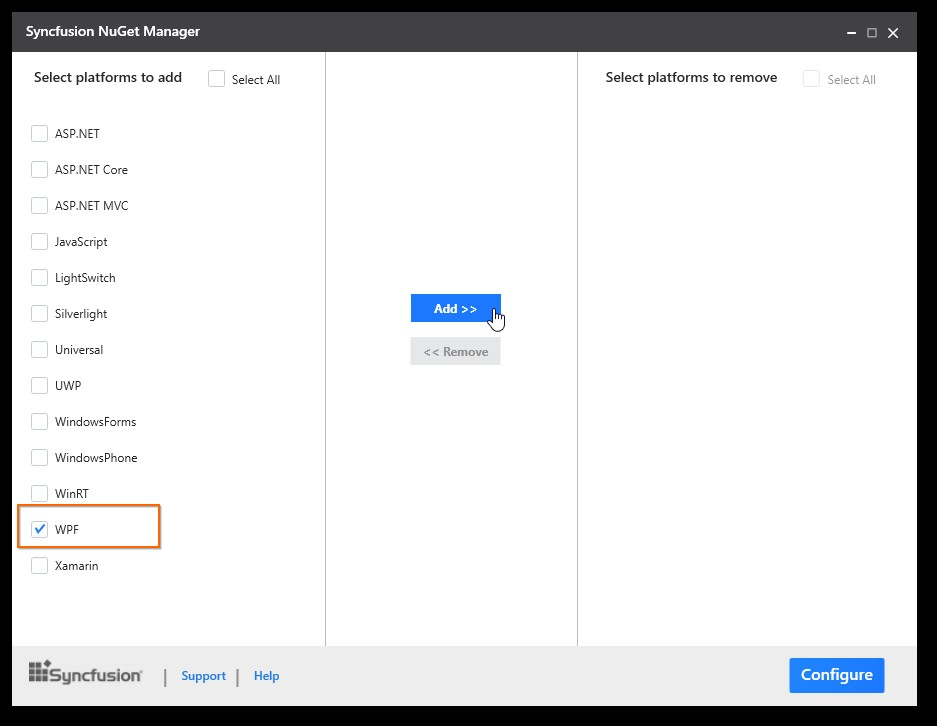
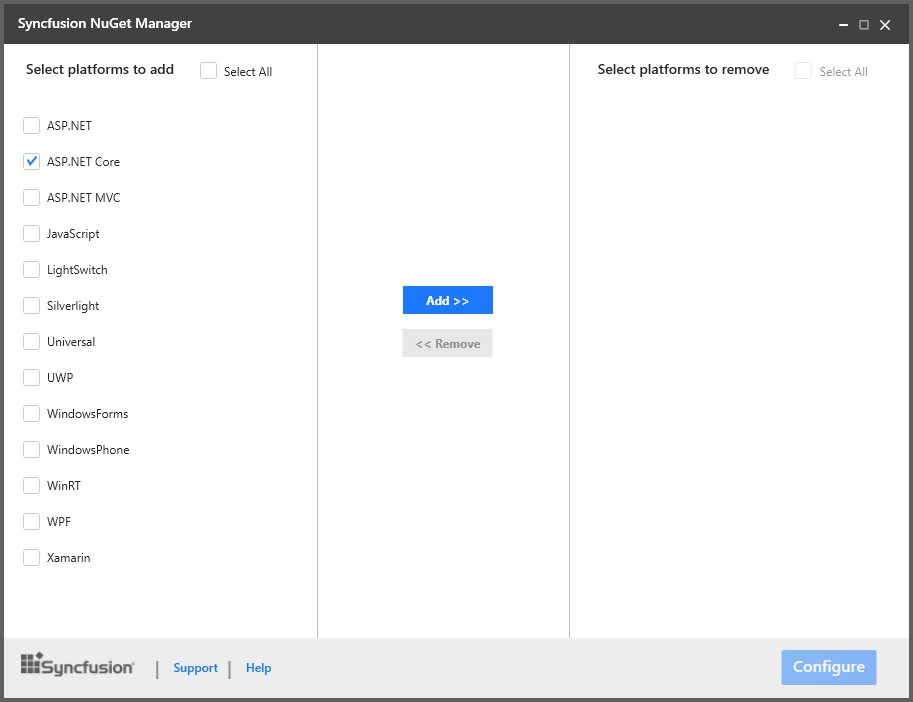
EXT-2153 Modified Syncfusion Nuget Manager Screenshot in NuGet Configuration (ASP.NET Core)

Changed region(s): [[0.0, 0.0, 1.0, 1.0], [0.4294, 0.3889, 0.552, 0.4487], [0.4294, 0.4786, 0.552, 0.5085]]

diff --git a/aspnet-core/Installation.md b/aspnet-core/Installation.md
@@ -32,7 +32,7 @@ The following steps help you configure Syncfusion NuGet Packages with a URL.
 1. **Syncfusion NuGet Manager** is allows you to **add** the Syncfusion NuGet sources (for available platforms) to NuGet Package Manager. Download the [Syncfusion NuGet Manager](http://www.syncfusion.com/downloads/support/directtrac/general/ze/SyncfusionNugetManager-1610952973.zip) utility.
 2. Extract zip file and run the SyncfusionNuGetManager.exe
 3. Syncfusion NuGet Manager Window will be opened.
-4. Select the platform **WPF** (or required platform) from **“Select platforms to add”** (Left side of the window) column and click **Add>>** button. Then click **Configure** button.
+4. Select the platform **ASP.NET Core** from **“Select platforms to add”** (Left side of the window) column and click **Add>>** button. Then click **Configure** button.
 
    ![](installation-and-deployment_images/Syncfusion_NuGet_Manager_img1.jpg)
 
